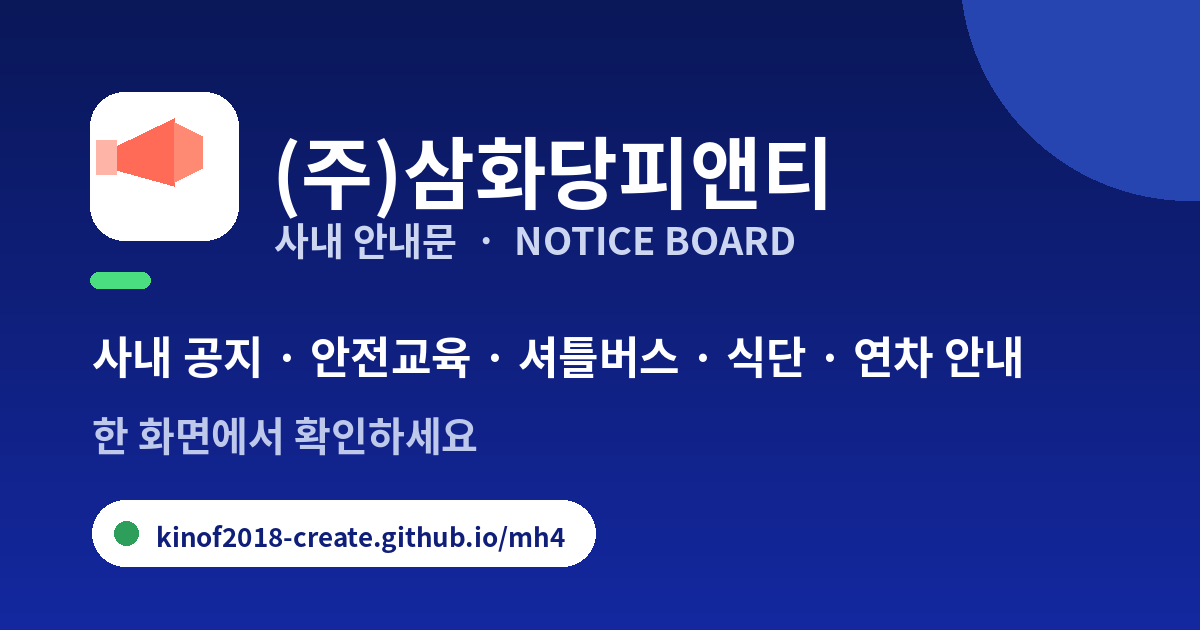
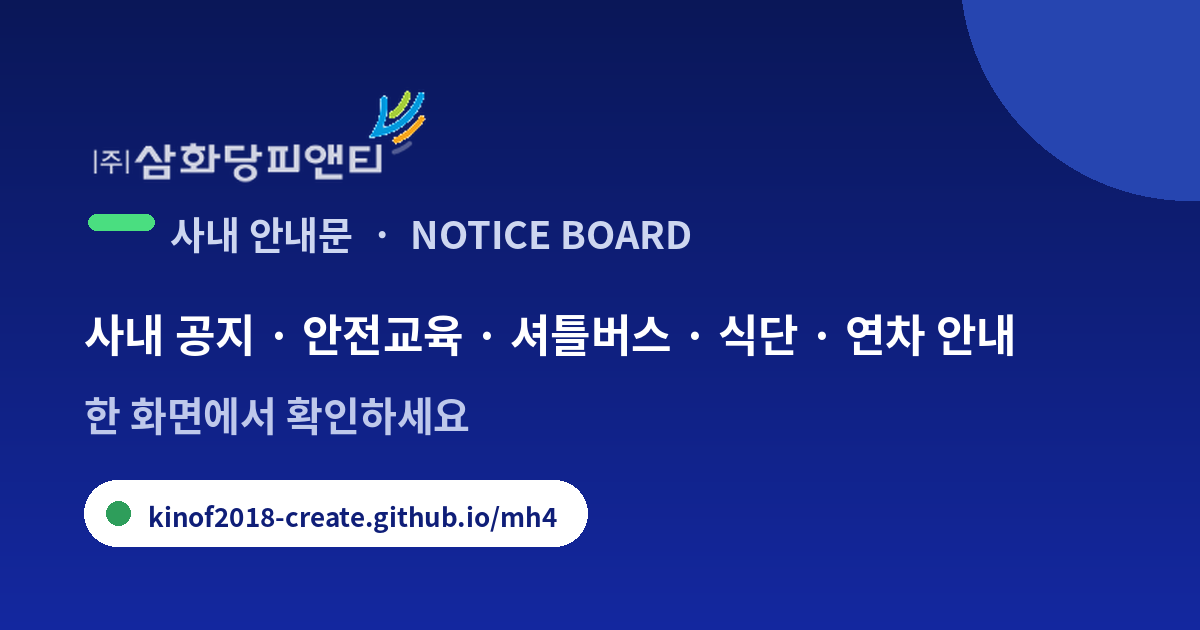
업데이트

diff --git a/index.html b/index.html
@@ -71,9 +71,10 @@ body{font-family:var(--font);background:var(--bg-subtle);color:var(--text-primar
   display:flex;align-items:center;gap:12px;
 }
 .board-head .mk{
-  width:44px;height:44px;border-radius:12px;flex:none;display:grid;place-items:center;font-size:22px;
-  background:rgba(255,255,255,0.16);border:1px solid rgba(255,255,255,0.26);
+  height:auto;width:auto;flex:none;margin-right:auto;display:grid;place-items:center;padding:0;
+  background:transparent;border:0;box-shadow:none;
 }
+.board-head .mk .brand-logo{max-width:300px;max-height:46px;width:auto;height:auto;object-fit:contain;display:block;}
 .board-head .tt{flex:1;min-width:0;}
 .board-head .tt b{display:block;font-size:1.12rem;font-weight:800;letter-spacing:-0.01em;line-height:1.2;}
 .board-head .tt span{display:block;font-size:0.66rem;font-weight:600;color:rgba(255,255,255,0.72);margin-top:2px;letter-spacing:0.04em;}
@@ -414,8 +415,7 @@ body.dark .ntc.mustread{border-color:rgba(214,69,69,0.5);}
 <body>
 <div class="app">
   <header class="board-head">
-    <div class="mk">📣</div>
-    <div class="tt"><b>사내 안내문</b><span>(주)삼화당피앤티 · NOTICE BOARD</span></div>
[1 lines of base64/hex data omitted]
     <button class="theme-btn" id="themeBtn" title="라이트/다크 전환">🌙 <span id="themeLabel">다크 모드</span></button>
     <button class="hbtn" id="menuBtn" title="전체 메뉴" aria-label="전체 메뉴">☰</button>
   </header>
@@ -622,7 +622,7 @@ async function loadPinned(){
     let r=await fetch('https://raw.githubusercontent.com/'+GH_OWNER+'/'+GH_REPO+'/'+GH_BRANCH+'/'+enc);
     if(r.ok) text=await r.text();
     else { const a=await fetch('https://api.github.com/repos/'+GH_OWNER+'/'+GH_REPO+'/contents/'+enc+'?ref='+GH_BRANCH,{headers:{'Accept':'application/vnd.github.raw'}}); if(a.ok) text=await a.text(); }
-    if(text!==null){ PINNED=parseNoticeFile(text); if(activeKey==='notice') renderMain(); }  // 파일 존재: 내용 있으면 표시, 비면 [] → 숨김
+    if(text!==null){ PINNED=parseNoticeFile(text); leadShown=false; if(activeKey==='notice') renderMain(); }  // 파일 존재: 내용 있으면 표시, 비면 [] → 숨김. leadShown 리셋 → 자동팝업 유지
   }catch(e){}
 }
 
